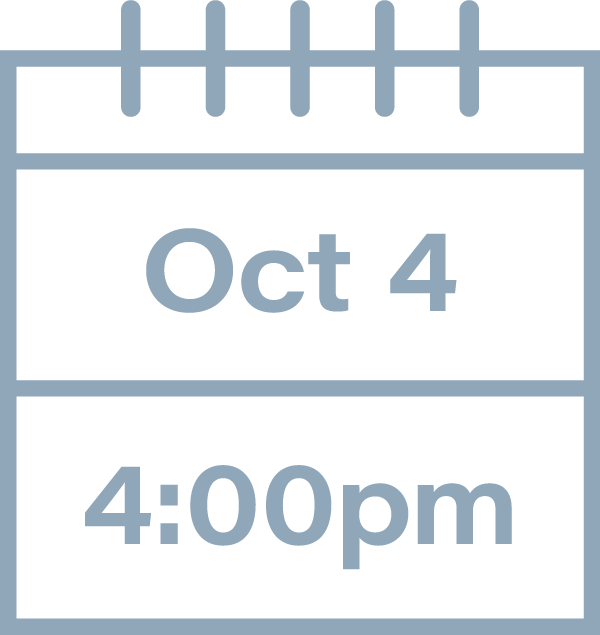
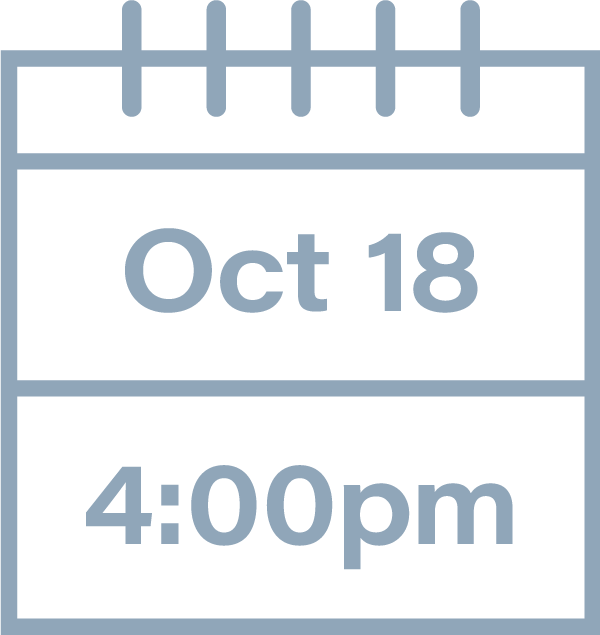
Updates to button colors and prelaunch gatherings

diff --git a/main.css b/main.css
@@ -1,1 +1,1 @@
-body{font-size:10px;font-family:Merriweather,serif;color:#394249;margin:0;width:100vw;height:100vh;background-image:url(/img/midtown-hero.jpg);background-size:cover;background-position-y:bottom}h1{font-family:acumin-pro-wide,sans-serif;font-weight:600;font-size:38px;margin-top:0;line-height:1.1em}p{font-size:16px;line-height:1.4em;margin-bottom:0}a{color:#90a6b9;transition:color ease .3s}a:focus,a:hover{color:#e2bc1c}.box{float:right;margin:5em 5em 5em 0;background-color:#fff;padding:0;max-width:45em}.box .box-inner{padding:0 3em}.box .box-inner .logo{padding:3em 0}.box .box-inner .logo img{max-width:100%;height:4em}.box .box-inner .about{border-top:2px solid #f4f4f4;border-bottom:2px solid #f4f4f4;padding:4em 0}.box .box-inner .extra{padding-top:2em}.box .box-inner .extra p{margin-top:0}.box .box-inner .extra img.social{width:3em;padding:2.5em 1em}.box .box-inner .extra img.social:focus,.box .box-inner .extra img.social:hover{-webkit-filter:brightness(0) saturate(100%) invert(73%) sepia(10%) saturate(638%) hue-rotate(166deg) brightness(87%) contrast(92%);filter:brightness(0) saturate(100%) invert(73%) sepia(10%) saturate(638%) hue-rotate(166deg) brightness(87%) contrast(92%)}.box .box-inner .extra img.social:first-of-type{padding-left:0}.box .box-inner .extra div.events{padding-top:2em;padding-bottom:2em;display:flex;max-width:100%;flex-wrap:nowrap;border-bottom:2px solid #f4f4f4}.box .box-inner .extra div.events a{padding-left:1em}.box .box-inner .extra div.events a:first-of-type{padding-left:0}.box .box-inner .extra div.events a img{max-width:100%}.box .box-inner .extra a:focus{outline:0}.box .box-inner div.newsletter{padding-top:1em;padding-bottom:1em;border-bottom:2px solid #f4f4f4;background-color:#f4f4f4;text-align:center}.box .box-inner div.newsletter a{text-decoration:none!important;font-size:16px;color:#e2bc1c}.box .box-inner div.newsletter a:active,.box .box-inner div.newsletter a:hover{color:#90a6b9}@media (max-width:500px){body h1{font-size:28px}body .box{float:none;margin-top:3em;margin-left:auto;margin-right:auto;width:90vw}body .box .box-inner{padding:3em}body .box .box-inner .extra{margin-bottom:-3em}}
+body{font-size:10px;font-family:Merriweather,serif;color:#394249;margin:0;width:100vw;height:100vh;background-image:url(/img/midtown-hero.jpg);background-size:cover;background-position-y:bottom}h1{font-family:acumin-pro-wide,sans-serif;font-weight:600;font-size:38px;margin-top:0;line-height:1.1em}p{font-size:16px;line-height:1.4em;margin-bottom:0}a{color:#90a6b9;transition:color ease .3s}a:focus,a:hover{color:#e2bc1c}.box{float:right;margin:5em 5em 5em 0;background-color:#fff;padding:0;max-width:45em}.box .box-inner{padding:0 3em}.box .box-inner .logo{padding:3em 0}.box .box-inner .logo img{max-width:100%;height:4em}.box .box-inner .about{border-top:2px solid #f4f4f4;border-bottom:2px solid #f4f4f4;padding:4em 0}.box .box-inner .extra{padding-top:2em}.box .box-inner .extra p{margin-top:0}.box .box-inner .extra img.social{width:3em;padding:2.5em 1em}.box .box-inner .extra img.social:focus,.box .box-inner .extra img.social:hover{-webkit-filter:brightness(0) saturate(100%) invert(73%) sepia(10%) saturate(638%) hue-rotate(166deg) brightness(87%) contrast(92%);filter:brightness(0) saturate(100%) invert(73%) sepia(10%) saturate(638%) hue-rotate(166deg) brightness(87%) contrast(92%)}.box .box-inner .extra img.social:first-of-type{padding-left:0}.box .box-inner .extra div.events{padding-top:2em;padding-bottom:2em;display:flex;max-width:100%;flex-wrap:nowrap;border-bottom:2px solid #f4f4f4}.box .box-inner .extra div.events a{padding-left:1em}.box .box-inner .extra div.events a:first-of-type{padding-left:0}.box .box-inner .extra div.events a img{max-width:100%}.box .box-inner .extra a:focus{outline:0}.box .box-inner div.newsletter{padding-top:1em;padding-bottom:1em;border-bottom:2px solid #f4f4f4;background-color:#74988c;transition:background-color ease .3s;text-align:center}.box .box-inner div.newsletter a{text-decoration:none!important;font-size:16px;color:#fff}.box .box-inner div.newsletter:active,.box .box-inner div.newsletter:hover{background-color:#90a6b9}@media (max-width:500px){body h1{font-size:28px}body .box{float:none;margin-top:3em;margin-left:auto;margin-right:auto;width:90vw}body .box .box-inner{padding:3em}body .box .box-inner .extra{margin-bottom:-3em}}

diff --git a/index.html b/index.html
@@ -26,18 +26,19 @@
           <p>We are excited to announce the upcoming launch of Midtown Church in January, 2021. Midtown is a replant work that will build upon the 52 years of faithful ministry of Culloden Church as it seeks to make Jesus known in Vancouver.</p>
         </div>
         <div class="extra">
-          <p>Register for our info gathering! (In-Person Only)<br /><em>Online viewing options to be announced soon.</em></p>
+          <p>Register for our a prelaunch gathering!</p>
           <div class="events">
-            <a><img class="event" src="/img/four-full.png" alt="Sept 27th at 4pm - full"/></a>
-            <a><img class="event" src="/img/six-full.png" alt="Sept 27th at 6pm - full"/></a>
-            <a><img class="event" src="/img/four-four-full.png" alt="Oct 4th at 4pm - full"/></a>
-            <a href="https://www.eventbrite.ca/e/119762415609"><img class="event" src="/img/six.png" onmouseover=this.src="/img/six-hov.png" onmouseout=this.src="/img/six.png" alt="Oct 4th at 6pm"/></a>
+            <!-- <a><img class="event" src="/img/four-full.png" alt="Sept 27th at 4pm - full"/></a> -->
+            <a href="https://www.eventbrite.ca/e/122854883263"><img class="event" src="/img/two.png" onmouseover=this.src="/img/two-hov.png" onmouseout=this.src="/img/two.png" alt="Oct 18th at 2pm"/></a>
+            <a href="https://www.eventbrite.ca/e/122854997605"><img class="event" src="/img/four.png" onmouseover=this.src="/img/four-hov.png" onmouseout=this.src="/img/four.png" alt="Oct 18th at 4pm"/></a>
+            <a href="https://www.eventbrite.ca/e/122855015659"><img class="event" src="/img/six.png" onmouseover=this.src="/img/six-hov.png" onmouseout=this.src="/img/six.png" alt="Oct 18th at 6pm"/></a>
           </div>
           <div class="newsletter"><a href="http://eepurl.com/hdjIDD" target="_blank">Sign up for Midtown news</a></div>
 
           <a href="https://www.instagram.com/mtownchurch/" target="_blank"><img class="social" src="/img/insta.png" alt="instagram logo" /></a>
           <a href="https://www.facebook.com/mtownchurch" target="_blank"><img class="social" src="/img/fb.png" alt="facebook logo" /></a>
           <a href="https://twitter.com/mtownchurch" target="_blank"><img class="social" src="/img/tw.png" alt="twitter logo" /></a>
+          <a href="http://youtube.com/c/midtownchurch" target="_blank"><img class="social" src="/img/yt.png" alt="youtube logo" /></a>
         </div>
       </div>
     </div>
